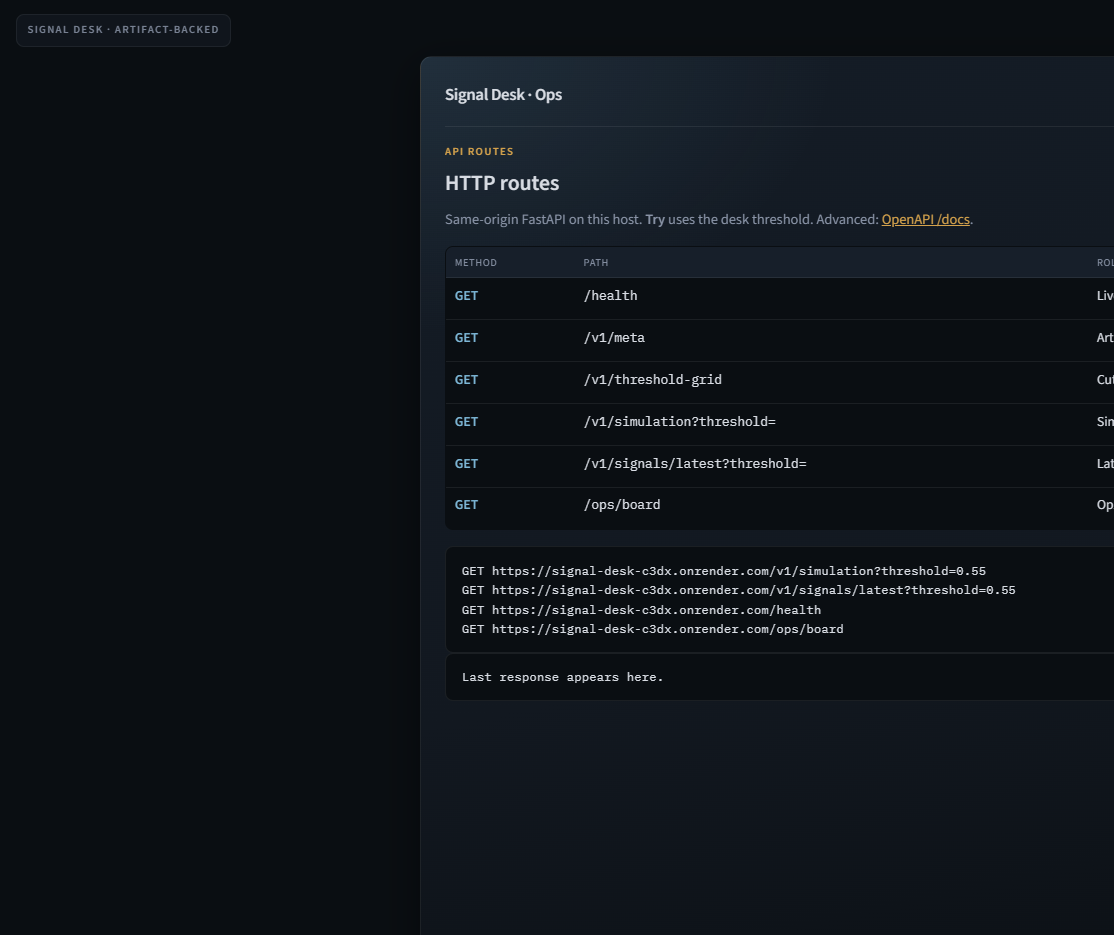
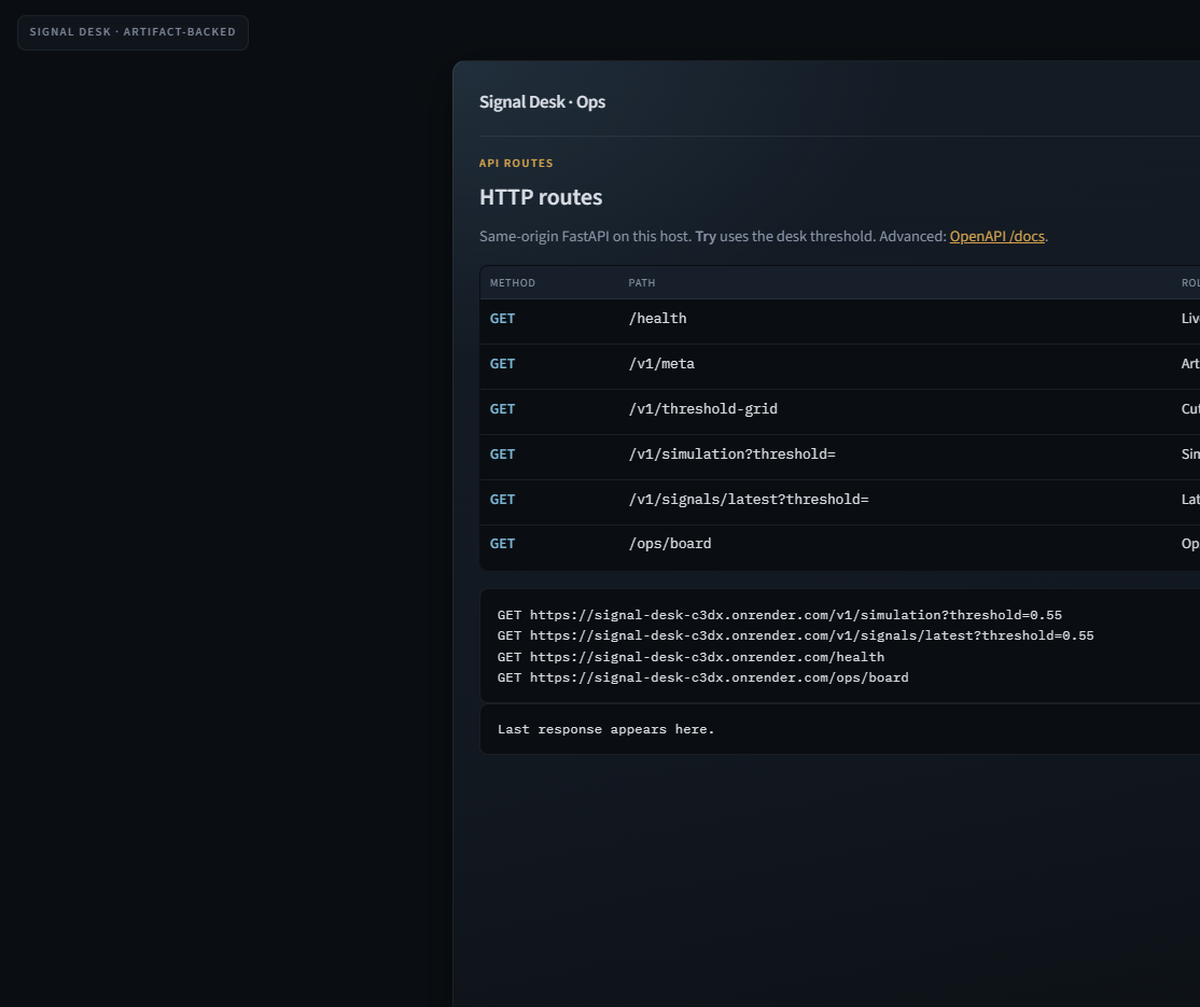
README: full-width Ops, rubric Claimed column, compact mermaid; redo desk callouts

diff --git a/ops/crop_desk_frame.py b/ops/crop_desk_frame.py
@@ -1,0 +1,59 @@
+"""Trim letterboxing from desk capture, scale for README, refresh annotation source."""
+from __future__ import annotations
+
+from pathlib import Path
+
+from PIL import Image
+
+ROOT = Path(__file__).resolve().parents[1]
+RAW = ROOT / "docs" / "images" / "desk" / "desk-capture-raw.png"
+SRC = ROOT / "docs" / "images" / "desk" / "desk-after-update.png"
+DST = ROOT / "docs" / "images" / "desk" / "desk-plain.png"
+OUT = ROOT / "docs" / "images" / "desk" / "desk-after-update.png"
+TARGET_W = 1400
+
+
+def content_bbox(im: Image.Image, pad: int = 8) -> tuple[int, int, int, int]:
+    rgb = im.convert("RGB")
+    w, h = rgb.size
+    px = rgb.load()
+    min_x, min_y = w, h
+    max_x, max_y = 0, 0
+    for y in range(h):
+        for x in range(w):
+            r, g, b = px[x, y]
+            if r > 22 or g > 22 or b > 26:
+                min_x = min(min_x, x)
+                max_x = max(max_x, x)
+                min_y = min(min_y, y)
+                max_y = max(max_y, y)
+    if max_x <= min_x:
+        return 0, 0, w, h
+    l = max(0, min_x - pad)
+    t = max(0, min_y - pad)
+    r = min(w, max_x + pad + 1)
+    b = min(h, max_y + pad + 1)
+    return l, t, r, b
+
+
+def main() -> None:
+    import shutil
+
+    if SRC.exists() and not RAW.exists():
+        shutil.copy2(SRC, RAW)
+    path = RAW if RAW.exists() else SRC
+    im = Image.open(path).convert("RGB")
+    box = content_bbox(im)
+    cropped = im.crop(box)
+    cw, ch = cropped.size
+    scale = TARGET_W / cw
+    target_h = max(1, int(ch * scale))
+    scaled = cropped.resize((TARGET_W, target_h), Image.Resampling.LANCZOS)
+    DST.parent.mkdir(parents=True, exist_ok=True)
+    scaled.save(OUT, format="PNG", optimize=True)
+    scaled.save(DST, format="PNG", optimize=True)
+    print(f"Crop {box} -> {TARGET_W}x{target_h} wrote {OUT}")
+
+
+if __name__ == "__main__":
+    main()

diff --git a/ops/annotate_desk_preview.py b/ops/annotate_desk_preview.py
@@ -12,15 +12,16 @@ DST = ROOT / "docs" / "images" / "desk" / "desk-annotated.png"
 NEON = (255, 72, 72, 255)
 NEON_GLOW = (255, 72, 72, 72)
 
+# Trimmed desk frame (~1400px wide); run ops/crop_desk_frame.py first.
 MARKERS: list[tuple[float, float, str]] = [
-    (0.12, 0.11, "1"),
-    (0.20, 0.36, "2"),
-    (0.20, 0.52, "3"),
-    (0.16, 0.66, "4"),
-    (0.62, 0.36, "5"),
-    (0.62, 0.47, "6"),
-    (0.55, 0.68, "7"),
-    (0.93, 0.04, "8"),
+    (0.32, 0.12, "1"),
+    (0.20, 0.34, "2"),
+    (0.20, 0.46, "3"),
+    (0.20, 0.68, "4"),
+    (0.62, 0.34, "5"),
+    (0.58, 0.44, "6"),
+    (0.62, 0.70, "7"),
+    (0.94, 0.04, "8"),
 ]
 
 FONT_CANDIDATES = (
@@ -61,7 +62,7 @@ def main() -> None:
     w, h = im.size
     overlay = Image.new("RGBA", im.size, (0, 0, 0, 0))
     draw = ImageDraw.Draw(overlay)
-    font_size = max(12, int(min(w, h) * 0.017))
+    font_size = max(13, int(min(w, h) * 0.020))
     font = load_font(font_size)
 
     for xp, yp, label in MARKERS:
@@ -73,6 +74,11 @@ def main() -> None:
         draw.ellipse(glow, outline=NEON_GLOW, width=1)
         draw.ellipse(bbox, outline=NEON, width=1)
         draw.text((cx, cy), label, font=font, fill=NEON, anchor="mm")
+
+    bx, by = int(0.20 * w), int(0.58 * h)
+    half, _, _ = marker_box(draw, "b", font)
+    draw.ellipse((bx - half, by - half, bx + half, by + half), outline=NEON, width=1)
+    draw.text((bx, by), "b", font=load_font(max(10, font_size - 2)), fill=NEON, anchor="mm")
 
     out = Image.alpha_composite(im, overlay).convert("RGB")
     DST.parent.mkdir(parents=True, exist_ok=True)

diff --git a/ops/prepare_ops_readme.py b/ops/prepare_ops_readme.py
@@ -1,0 +1,31 @@
+"""Scale Ops tab captures for full-width README."""
+from __future__ import annotations
+
+from pathlib import Path
+
+from PIL import Image
+
+ROOT = Path(__file__).resolve().parents[1]
+OPS = ROOT / "docs" / "images" / "ops"
+TARGET_W = 1200
+NAMES = ("ops-inspector.png", "ops-log.png", "ops-api.png", "ops-grafana.png")
+
+
+def main() -> None:
+    for name in NAMES:
+        path = OPS / name
+        if not path.exists():
+            print(f"skip missing {path}")
+            continue
+        im = Image.open(path).convert("RGB")
+        w, h = im.size
+        if w >= TARGET_W:
+            print(f"ok {name} {w}x{h}")
+            continue
+        nh = max(1, int(h * TARGET_W / w))
+        im.resize((TARGET_W, nh), Image.Resampling.LANCZOS).save(path, format="PNG", optimize=True)
+        print(f"scaled {name} -> {TARGET_W}x{nh}")
+
+
+if __name__ == "__main__":
+    main()

diff --git a/README.md b/README.md
@@ -153,36 +153,26 @@ python ops\export_artifacts.py
 
 **Live path (infographic):** User → Render FastAPI → `static/` desk + Ops overlay → `GET /v1/*` and `GET /ops/board` → read `artifacts/latest.json` baked into the image. No separate Grafana server on Render.
 
-Technical graph (same system, code-oriented):
-
-```mermaid
-flowchart TD
-    User["User / Reviewer"] --> Browser["Browser<br/>static/index.html + app.js"]
-    Browser --> Desk["Signal Desk<br/>threshold · Update simulation · KPIs · signals"]
-    Browser --> Ops["Ops overlay<br/>Inspector · Log · API · Grafana tab"]
-    Desk --> API["FastAPI app/main.py<br/>GET /v1/*"]
-    Ops --> Board["GET /ops/board<br/>app/audit.board_payload()"]
-    API --> Artifact[("artifacts/latest.json<br/>threshold grid 0.55–0.60 · baked in Docker")]
-    Board --> API
-    Export["Offline (E: only)<br/>parquet → export_artifacts.py"] -.-> Artifact
-    Render["Render web service<br/>signal-desk-c3dx.onrender.com"] --> API
-
-    linkStyle default stroke:#d4a24c,stroke-width:1.5px
-
-    style User fill:#0a0e12,color:#d8dce3,stroke:#d4a24c
-    style Browser fill:#121820,color:#d8dce3,stroke:#d4a24c
-    style Desk fill:#0f1419,color:#d8dce3,stroke:#6dcca4
-    style Ops fill:#0f1419,color:#d8dce3,stroke:#6dcca4
-    style API fill:#3d3424,color:#d8dce3,stroke:#d4a24c
-    style Board fill:#121820,color:#d8dce3,stroke:#6dcca4
-    style Artifact fill:#1e3a5f,color:#d8dce3,stroke:#60a5fa
-    style Export fill:#0a0e12,color:#8b95a8,stroke:#64748b
-    style Render fill:#0a0e12,color:#d8dce3,stroke:#d4a24c
-```
-
 **Request path (short):** drag threshold → client preview from grid → **Update simulation** → `GET /v1/simulation` + `GET /v1/signals/latest` · Ops **Grafana** tab polls `GET /ops/board` on the same process.
 
-Extended Mermaid and ASCII: [`docs/ARCHITECTURE.md`](docs/ARCHITECTURE.md).
+Technical graph (compact — left-to-right):
+
+```mermaid
+flowchart LR
+    U["User"] --> B["Browser<br/>static/"]
+    B --> D["Desk"]
+    B --> O["Ops"]
+    D --> F["FastAPI<br/>/v1"]
+    O --> G["/ops/board"]
+    G --> F
+    F --> J[("latest.json")]
+    R["Render"] --> F
+    X["export offline"] -.-> J
+
+    linkStyle default stroke:#d4a24c,stroke-width:1.5px
+```
+
+Step-by-step Mermaid (TD) and ASCII: [`docs/ARCHITECTURE.md`](docs/ARCHITECTURE.md).
 
 [↑ Contents](#table-of-contents)
 
@@ -241,9 +231,21 @@ Plain capture: [`docs/images/desk/desk-after-update.png`](docs/images/desk/desk-
 
 ### Ops overlay (Inspector · Log · API · Grafana)
 
-| Inspector | Log | API | Grafana tab |
-|:---:|:---:|:---:|:---:|
-| ![Inspector](docs/images/ops/ops-inspector.png) | ![Log](docs/images/ops/ops-log.png) | ![API](docs/images/ops/ops-api.png) | ![Grafana tab](docs/images/ops/ops-grafana.png) |
+**Inspector** — last simulation snapshot, artifact meta, CAGR.
+
+![Inspector — full width](docs/images/ops/ops-inspector.png)
+
+**Log** — API calls from this browser session.
+
+![Log — full width](docs/images/ops/ops-log.png)
+
+**API** — routes, **Try**, sample responses ([OpenAPI `/docs`](https://signal-desk-c3dx.onrender.com/docs)).
+
+![API — full width](docs/images/ops/ops-api.png)
+
+**Grafana tab** — in-process board from `GET /ops/board` (not a separate Grafana server on Render).
+
+![Grafana tab — full width](docs/images/ops/ops-grafana.png)
 
 [↑ Contents](#table-of-contents)
 
@@ -258,17 +260,18 @@ Maps the **course capstone** and **this repo** to the official [Stock Markets An
 | [ZoomCamp `SMA/Project`](https://github.com/zakard114/ZoomCamp/tree/main/SMA/Project) @ [`dd4cd5a`](https://github.com/zakard114/ZoomCamp/commit/dd4cd5a) | **Graded pipeline** — data → features → RandomForest → vector simulation → `run.py` / `project.ipynb` |
 | **This repo** (`signal-desk`) + https://signal-desk-c3dx.onrender.com | **LiP / portfolio** — frozen artifact API, desk UI, Ops monitoring, Render deploy |
 
-| # | Rubric block (official) | Max | Evidence (where to verify) |
-|---|-------------------------|-----|----------------------------|
-| 1 | **Problem description** | 4 | Capstone: [Problem](https://github.com/zakard114/ZoomCamp/tree/main/SMA/Project#problem) in `SMA/Project` README; portfolio framing: [Mission](#mission) + [Problem](#problem) here |
-| 2 | **Data sources** | 4 | Capstone: [Data sources (lecture)](https://github.com/zakard114/ZoomCamp/tree/main/SMA/Project#data-sources-lecture) — YFinance / TA / FRED combined parquet (local path, not on GitHub) |
-| 3 | **Data transformations + EDA** | 3 | Capstone: `src/features.py` `FEATURE_SETS` (TO_PREDICT, NUMERIC, DUMMIES) — [`features.py`](https://github.com/zakard114/ZoomCamp/blob/main/SMA/Project/src/features.py) |
-| 4 | **Modeling** | 5 | Capstone: `RandomForestClassifier` in `src/modeling.py`; threshold rule `pred_rf_0.55` — [Model & strategy](https://github.com/zakard114/ZoomCamp/tree/main/SMA/Project#model--strategy) |
-| 5 | **Trading simulation** | 8 | Capstone: vector sim, fees, CAGR — `src/simulation.py`, verified table in [SMA/Project README](https://github.com/zakard114/ZoomCamp/tree/main/SMA/Project#verified-run-local-2026-11-18); six cutoffs in `ops/export_artifacts.py` → `artifacts/latest.json` |
-| 6 | **Automation** | 5 | Capstone: `run.py` + `project.ipynb` orchestration, `requirements.txt` — [Reproduce](https://github.com/zakard114/ZoomCamp/tree/main/SMA/Project#reproduce); **this repo:** `ops/export_artifacts.py` (artifact refresh), [Quick start](#quick-start), `Dockerfile` |
-| 7 | **Bonus** | 7 | **This repo:** containerization ([`Dockerfile`](Dockerfile)); cloud deploy ([Cloud deployment](#cloud-deployment), [`render.yaml`](render.yaml)); monitoring dashboard (**Ops → Grafana**, [`docs/OPS.md`](docs/OPS.md), [Screenshots](#screenshots)); modular `app/` + `static/` layout. Peer discretionary bonus: reviewer decides (+1–2). |
+| # | Rubric block (official) | Max | Claimed | Evidence |
+|---|-------------------------|-----|---------|----------|
+| 1 | **Problem description** | 4 | 2 | [`SMA/Project` problem](https://github.com/zakard114/ZoomCamp/tree/main/SMA/Project#problem); [Mission](#mission) + [Problem](#problem) on this README |
+| 2 | **Data sources** | 4 | 1 | [Lecture sources](https://github.com/zakard114/ZoomCamp/tree/main/SMA/Project#data-sources-lecture) (YFinance / TA / FRED parquet — local, not on GitHub) |
+| 3 | **Data transformations + EDA** | 3 | 1 | [`FEATURE_SETS`](https://github.com/zakard114/ZoomCamp/blob/main/SMA/Project/src/features.py) in `src/features.py` |
+| 4 | **Modeling** | 5 | 1 | [`RandomForestClassifier`](https://github.com/zakard114/ZoomCamp/tree/main/SMA/Project#model--strategy), `pred_rf_0.55` |
+| 5 | **Trading simulation** | 8 | 1 | Vector sim + fees + CAGR in `src/simulation.py`; [verified run](https://github.com/zakard114/ZoomCamp/tree/main/SMA/Project#verified-run-local-2026-11-18); six cutoffs → [`artifacts/latest.json`](artifacts/latest.json) via `ops/export_artifacts.py` |
+| 6 | **Automation** | 5 | 2 | [`run.py`](https://github.com/zakard114/ZoomCamp/tree/main/SMA/Project#reproduce) + `project.ipynb`, `requirements.txt`; this repo: [Quick start](#quick-start), [`Dockerfile`](Dockerfile), `ops/export_artifacts.py` |
+| 7 | **Bonus** | 7 | 3 | Container ([`Dockerfile`](Dockerfile)), cloud ([Cloud deployment](#cloud-deployment)), monitoring ([Ops → Grafana](#ops-overlay-inspector--log--api--grafana), [`docs/OPS.md`](docs/OPS.md)). Peer discretionary (+1–2) not self-scored. |
+| | **Total (self-assessment)** | **36** | **11** | Official rubric caps at 36; course requires **≥6** from **bold** rows in sections 1–6 (bold items evidenced in `SMA/Project` @ `dd4cd5a` — run `run.py`). |
 
-**Bold floor (official minimum):** items marked **bold** in rubric sections 1–6 are implemented in `SMA/Project` @ `dd4cd5a` (see capstone README and `run.py` output). Remaining rubric checkboxes (extra features, second strategy, cron, benchmark, etc.) are **optional** — not claimed in this table unless you add evidence in the capstone repo first.
+**Claimed** = author self-score against the [official checklist](https://github.com/DataTalksClub/stock-markets-analytics-zoomcamp/blob/main/projects/README.md) only where evidence is linked; peers and the course form decide the final score. Optional rubric rows (second strategy, cron, benchmark, …) are **not** counted in **Claimed** until documented.
 
 ### Quick verification commands
 
@@ -282,8 +285,6 @@ cd E:\IT_SPACES\AI\Projects\sma\us-equity-signals
 uvicorn app.main:app --port 8080
 # Smoke: GET http://127.0.0.1:8080/v1/threshold-grid  →  "count": 6
 ```
-
-Course submission (2026 attempt 1): https://courses.datatalks.club/sma-zoomcamp-2026/project/project1
 
 [↑ Contents](#table-of-contents)
 

diff --git a/docs/PREVIEW.md b/docs/PREVIEW.md
@@ -87,12 +87,20 @@ E:\IT_SPACES\AI\ZoomCamp\ML\.venv\Scripts\python.exe ops\annotate_desk_preview.p
 
 ### Ops tabs
 
-| Tab | Preview | Role |
-|-----|---------|------|
-| Inspector | ![Inspector](./images/ops/ops-inspector.png) | Last simulation snapshot, CAGR, pred column, artifact info |
-| Log | ![Log](./images/ops/ops-log.png) | API calls from this browser (desk + Ops) |
-| API | ![API](./images/ops/ops-api.png) | Routes, **Try**, sample URL and last response |
-| Grafana | ![Grafana tab](./images/ops/ops-grafana.png) | In-app board from `GET /ops/board` (no external Grafana on Render) |
+![Inspector](./images/ops/ops-inspector.png)
+
+![Log](./images/ops/ops-log.png)
+
+![API](./images/ops/ops-api.png)
+
+![Grafana tab](./images/ops/ops-grafana.png)
+
+| Tab | Role |
+|-----|------|
+| Inspector | Last simulation snapshot, CAGR, pred column, artifact info |
+| Log | API calls from this browser (desk + Ops) |
+| API | Routes, **Try**, sample URL and last response |
+| Grafana | In-app board from `GET /ops/board` (no external Grafana on Render) |
 
 ---
 
